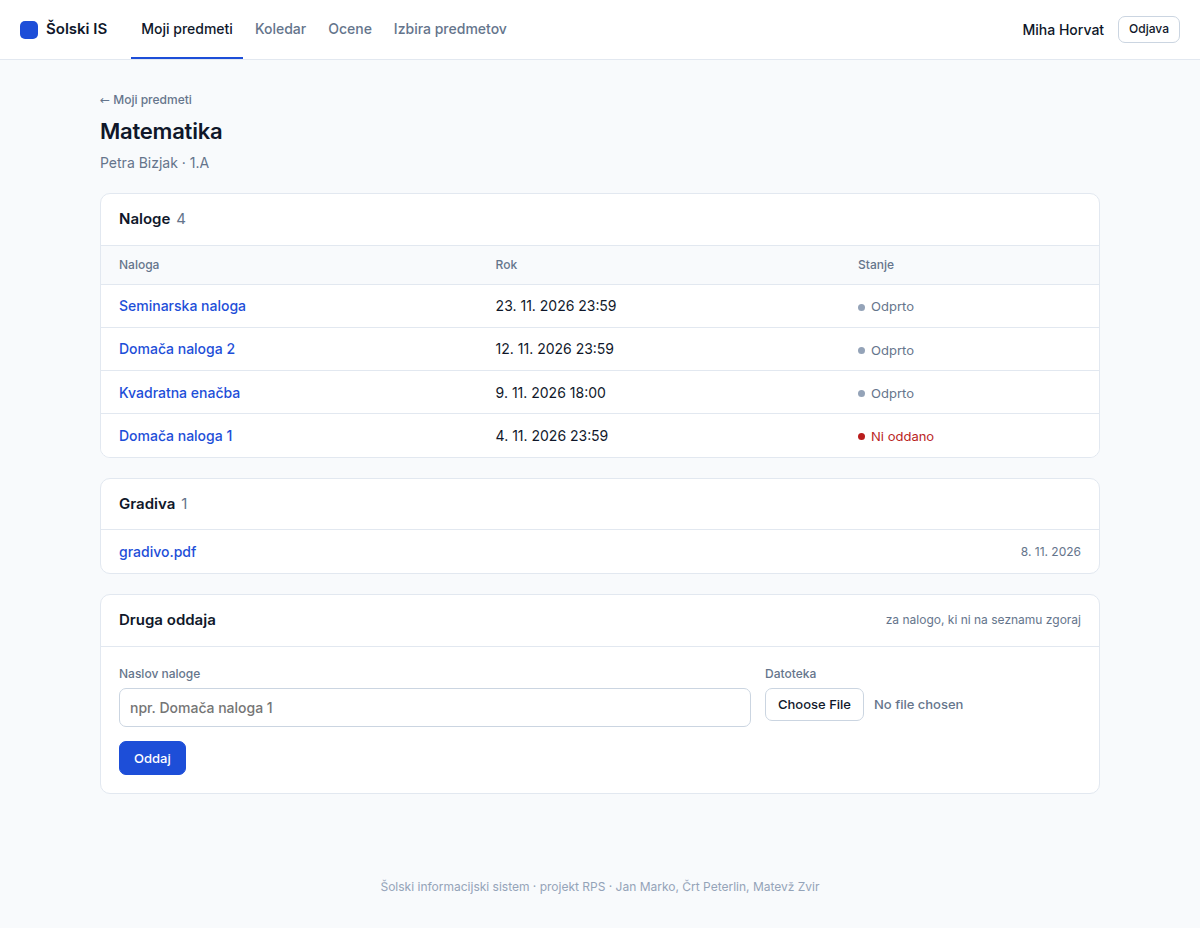
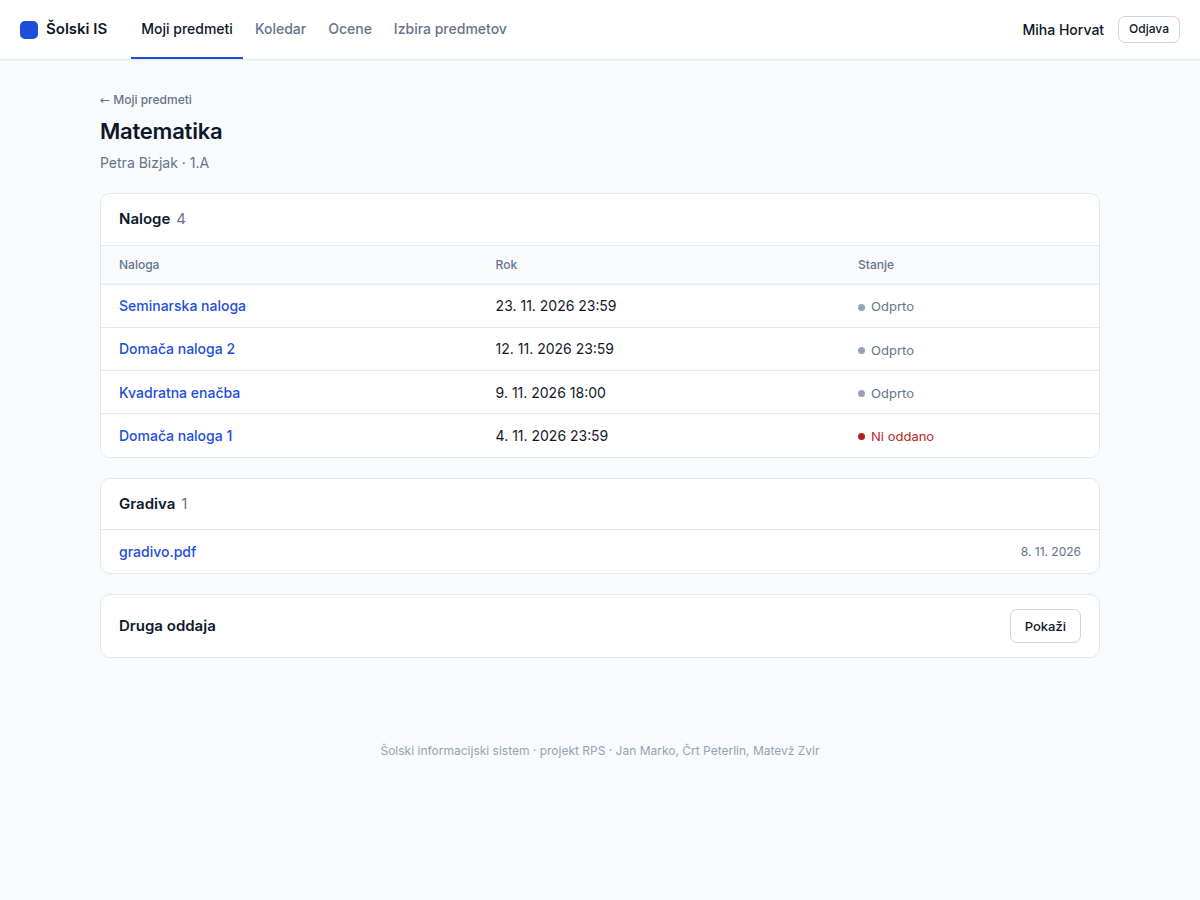
docs: druga oddaja se odpre z gumbom Pokaži

diff --git a/dokumentacija/uporabniska-navodila.md b/dokumentacija/uporabniska-navodila.md
@@ -156,8 +156,8 @@ in komentar; ocenjene naloge ne moreš več zamenjati.
 
 ![Naloga pri učencu](slike/ucenec-naloga.png)
 
-**Druga oddaja:** če moraš oddati nekaj, česar učitelj ni razpisal, na strani predmeta pod *Druga
-oddaja* sam vpiši naslov in izberi datoteko.
+**Druga oddaja:** če moraš oddati nekaj, česar učitelj ni razpisal, na strani predmeta odpri *Druga
+oddaja* (gumb **Pokaži**), vpiši naslov in izberi datoteko.
 
 **Ponovna oddaja:** če nalogo oddaš še enkrat, te aplikacija vpraša, ali želiš zamenjati prejšnjo
 oddajo. **Da, zamenjaj** prejšnjo datoteko zamenja z novo, **Ne, obdrži prejšnjo** pa novo
